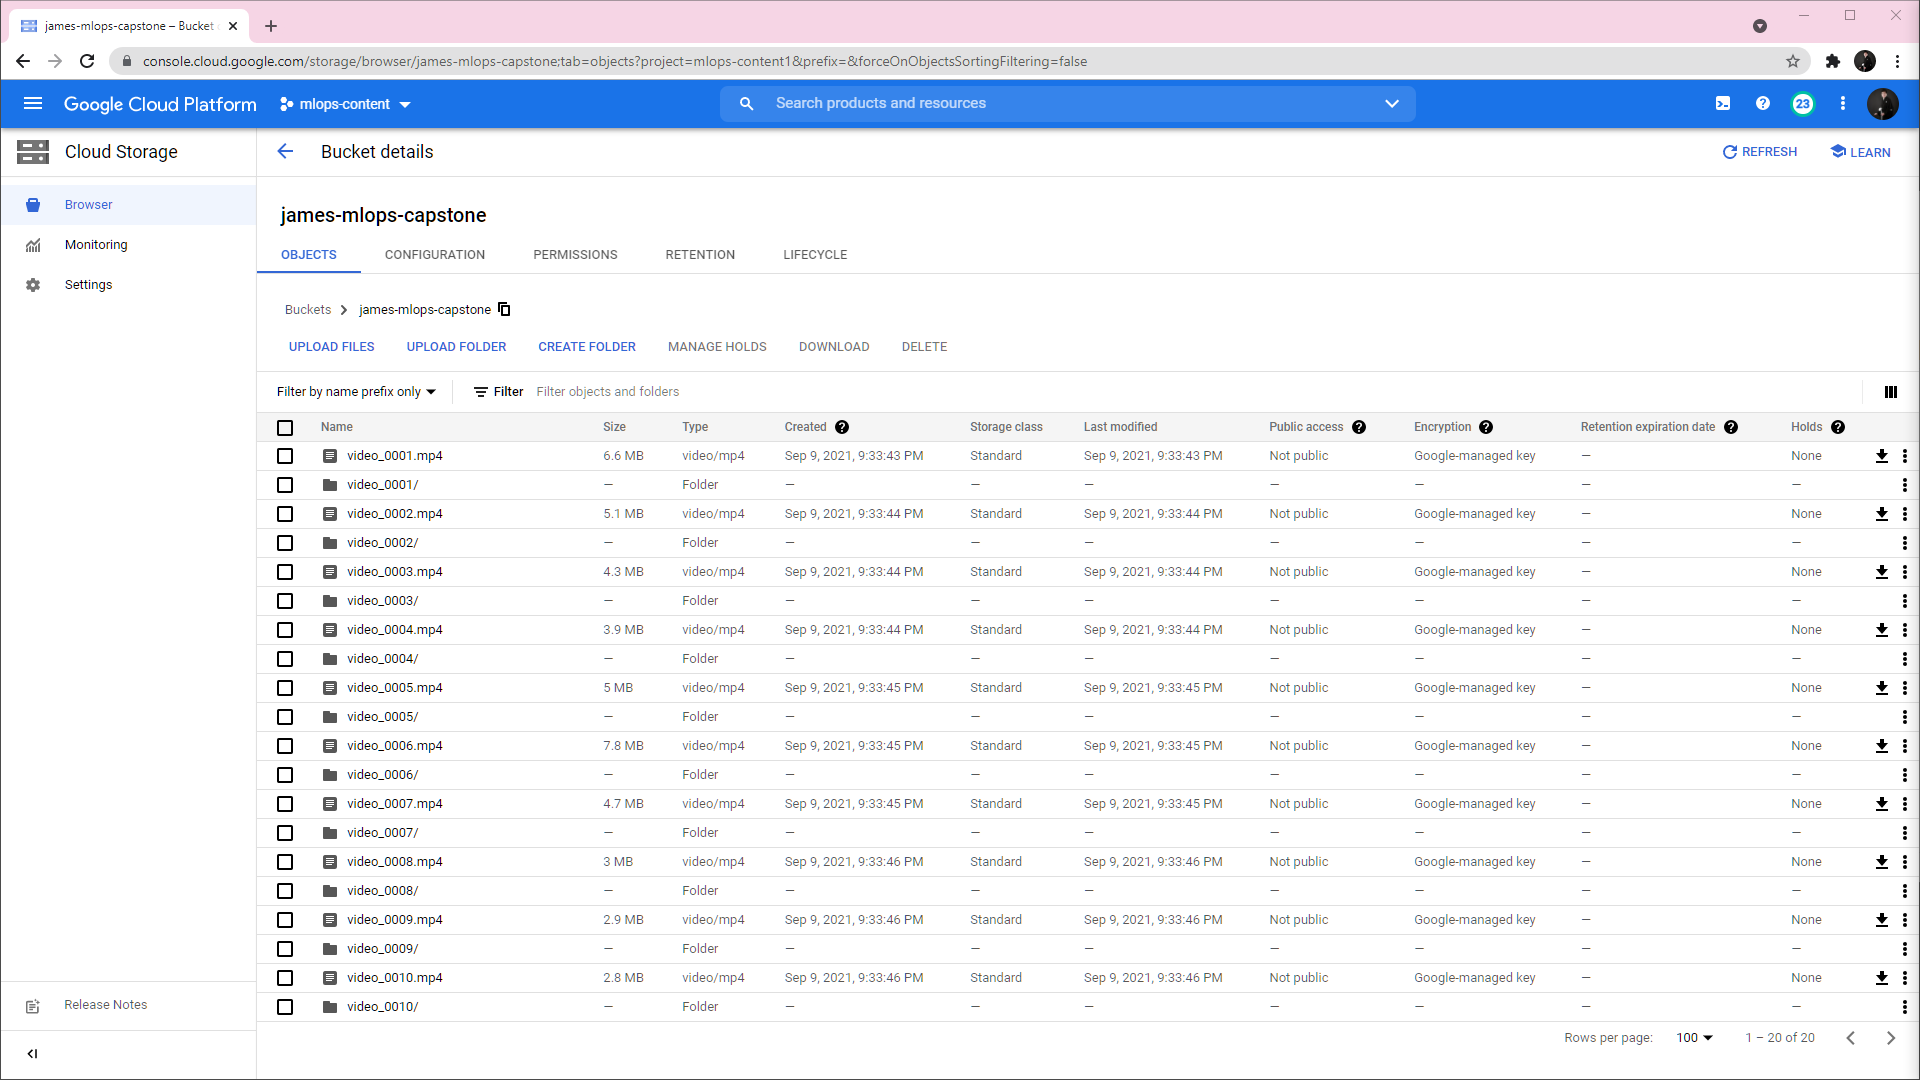
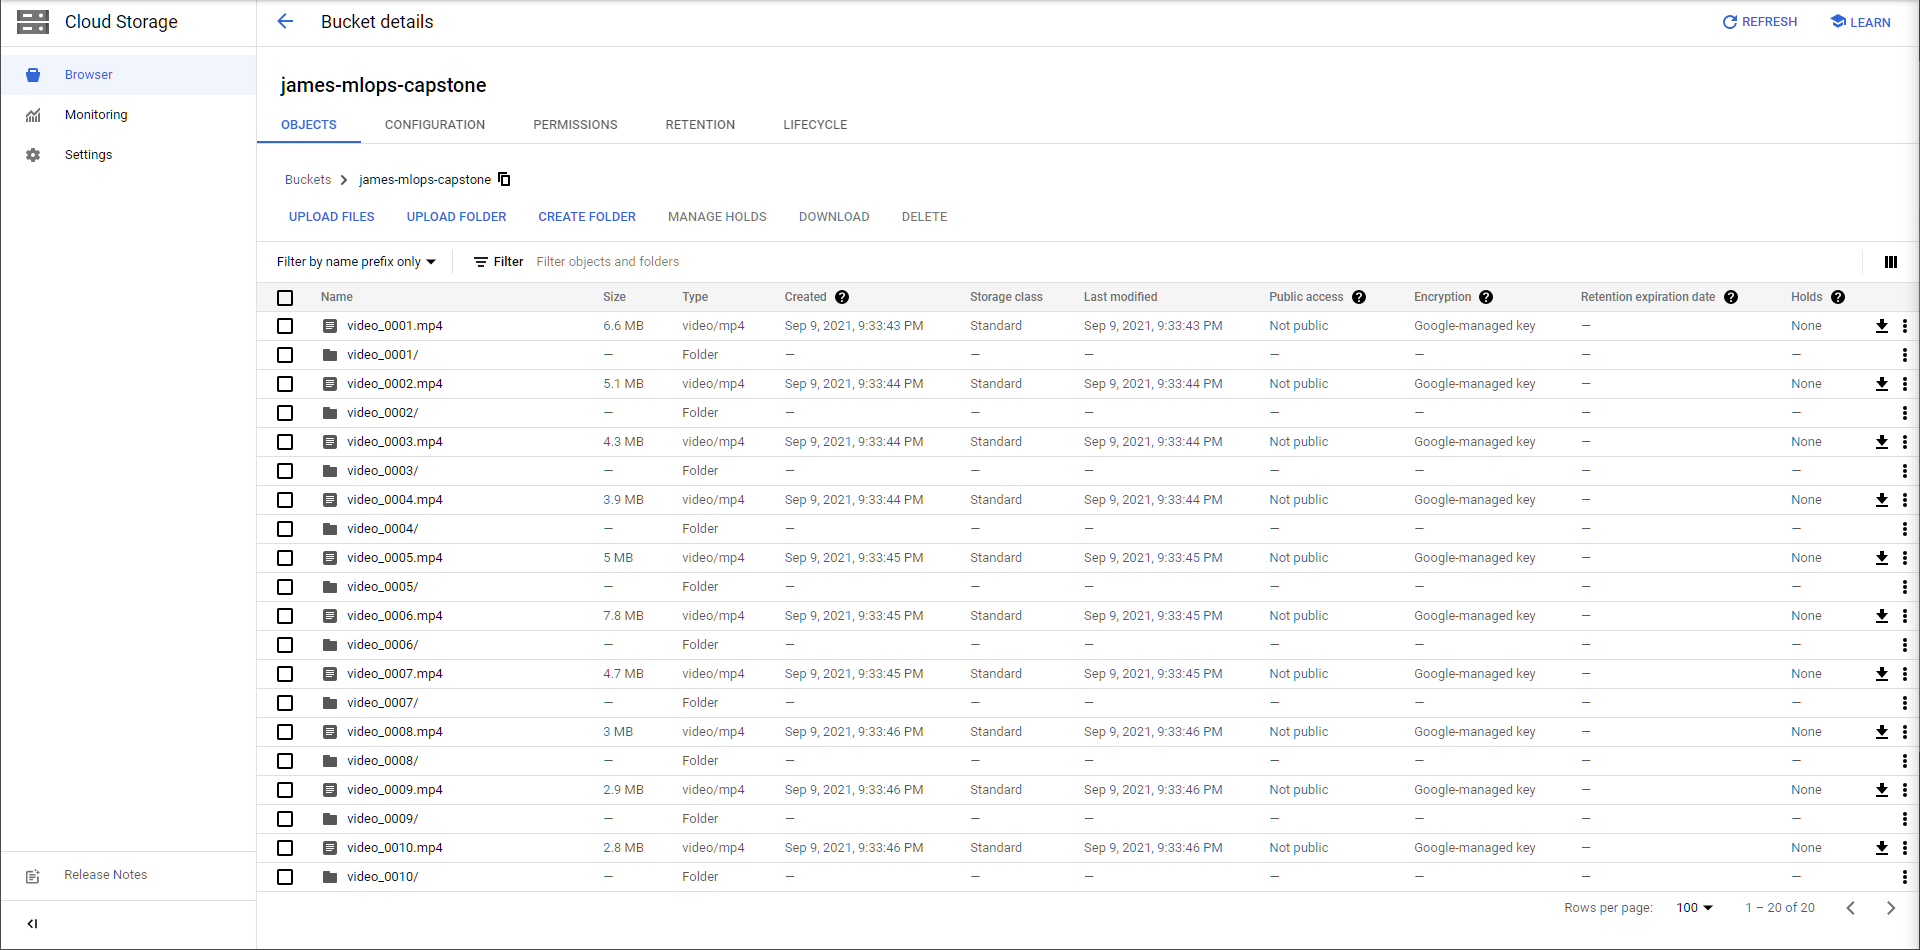
Readme edit

diff --git a/README.md b/README.md
@@ -4,13 +4,13 @@
 
 ## Project Description
 
-In this project, our aim is to improve the video annotation workflow by removing redundant frames in video, as well as removing noisy frames and gaining insights into the videos using ML model detection.
+In this project, our aim is to improve the video annotation workflow by removing redundant frames in video, as well as removing noisy frames and gaining insights into the videos using ML model detection as well as the metrics used to remove noisy and duplicate frames.
 
 We developed the workflow using the dashcam videos openly available in the [JAAD Dataset](https://github.com/ykotseruba/JAAD).
 
 This workflow is intended to provide insight to improve the data extraction - data validation - data preparation stages in an MLOps workflow.
 
-![mlops-continuous-delivery-and-automation-pipelines-in-machine-learning-3-ml-automation-ct](media\mlops-continuous-delivery-and-automation-pipelines-in-machine-learning-3-ml-automation-ct.svg)
+<img src="media\mlops-continuous-delivery-and-automation-pipelines-in-machine-learning-3-ml-automation-ct.png" alt="media\mlops-continuous-delivery-and-automation-pipelines-in-machine-learning-3-ml-automation-ct.png">
 
 https://cloud.google.com/architecture/mlops-continuous-delivery-and-automation-pipelines-in-machine-learning
 
@@ -18,27 +18,64 @@ https://cloud.google.com/architecture/mlops-continuous-delivery-and-automation-p
 
 ## Components of Workflow
 
+### Overview
+
+
+
 ### Data Storage
 
+This workflow uses the GCP Cloud Storage library to bulk store the video footage for ingress, and exports the separated frames and detection outputs to a subfolder named by video. The data is stored on the local machine during runtime.
 
+
+
+Before:
+
+<img src="media\GCP_before.png" alt="media\GCP_before.png">
+
+
+
+After:
+
+<img src="media\GCP_after.png" alt="media\GCP_after.png">
 
 ### Frame Separation
 
-
+Software pulls frames from mp4 videos using ffmpeg. The frames are stored in a folder with the same name as the video.
 
 ### Noisy Frame Reduction
 
-
+The software calculates the Laplacian variance of all of the frames of the video using OpenCV, then removes frames with 5% more Laplacian variance than the median. This value was chosen as it would prevent video with multiple types of scenes removing frames due to a scene change rather than noisiness.
 
 ### Similar Frame Reduction
 
-
+The software uses the structural similarity function from OpenCV to compare frames. It first calculates the similarity between each frame sequentially first, than delete frames that are more than 95% or 105% of the median similarity similar, whichever is greater.
 
 ### Object Detection
 
+The software uses the open-source [Faster RCNN Resnet50 model trained on Coco dataset](http://download.tensorflow.org/models/object_detection/faster_rcnn_resnet50_coco_2018_01_28.tar.gz) to detect objects in each frame. The detection classes are saved in a text file with the same name as the frame it was detecting in the frames folder.
+
+<img src="media\GCP_frames.png" alt="media\GCP_frames.png">
+
+Frames with detection metadata after workflow is completed
+
+## Running the Software
+
+### Weights and Biases
+
+This software runs 
+
+<img src="media\weights_and_biases3.png" alt="media\weights_and_biases3.png">
+
+### GCP IAM Key
+
+The software uses a `gcp_key.json` file to access the google cloud storage instance. You can create the file on [Google Cloud](https://cloud.google.com/iam/docs/creating-managing-service-account-keys).
+
+### FastAPI
+
+This software exposes FastAPI on port 8000 of the machine. You can access all of the functions using `http://<EXTERNAL_URL>:8000/doc/`. You can frame clean individual videos in the GCP bucket using the `clean_single_video` call. You can frame clean all videos in the GCP bucket using the `clean_bucket` call.
+
+<img src="media\fastapi.png" alt="media\fastapi.png">
 
 
 
-
-
-
+Please get in touch with me at jamesysato@gmail.com if you would like to implement any of these features.
